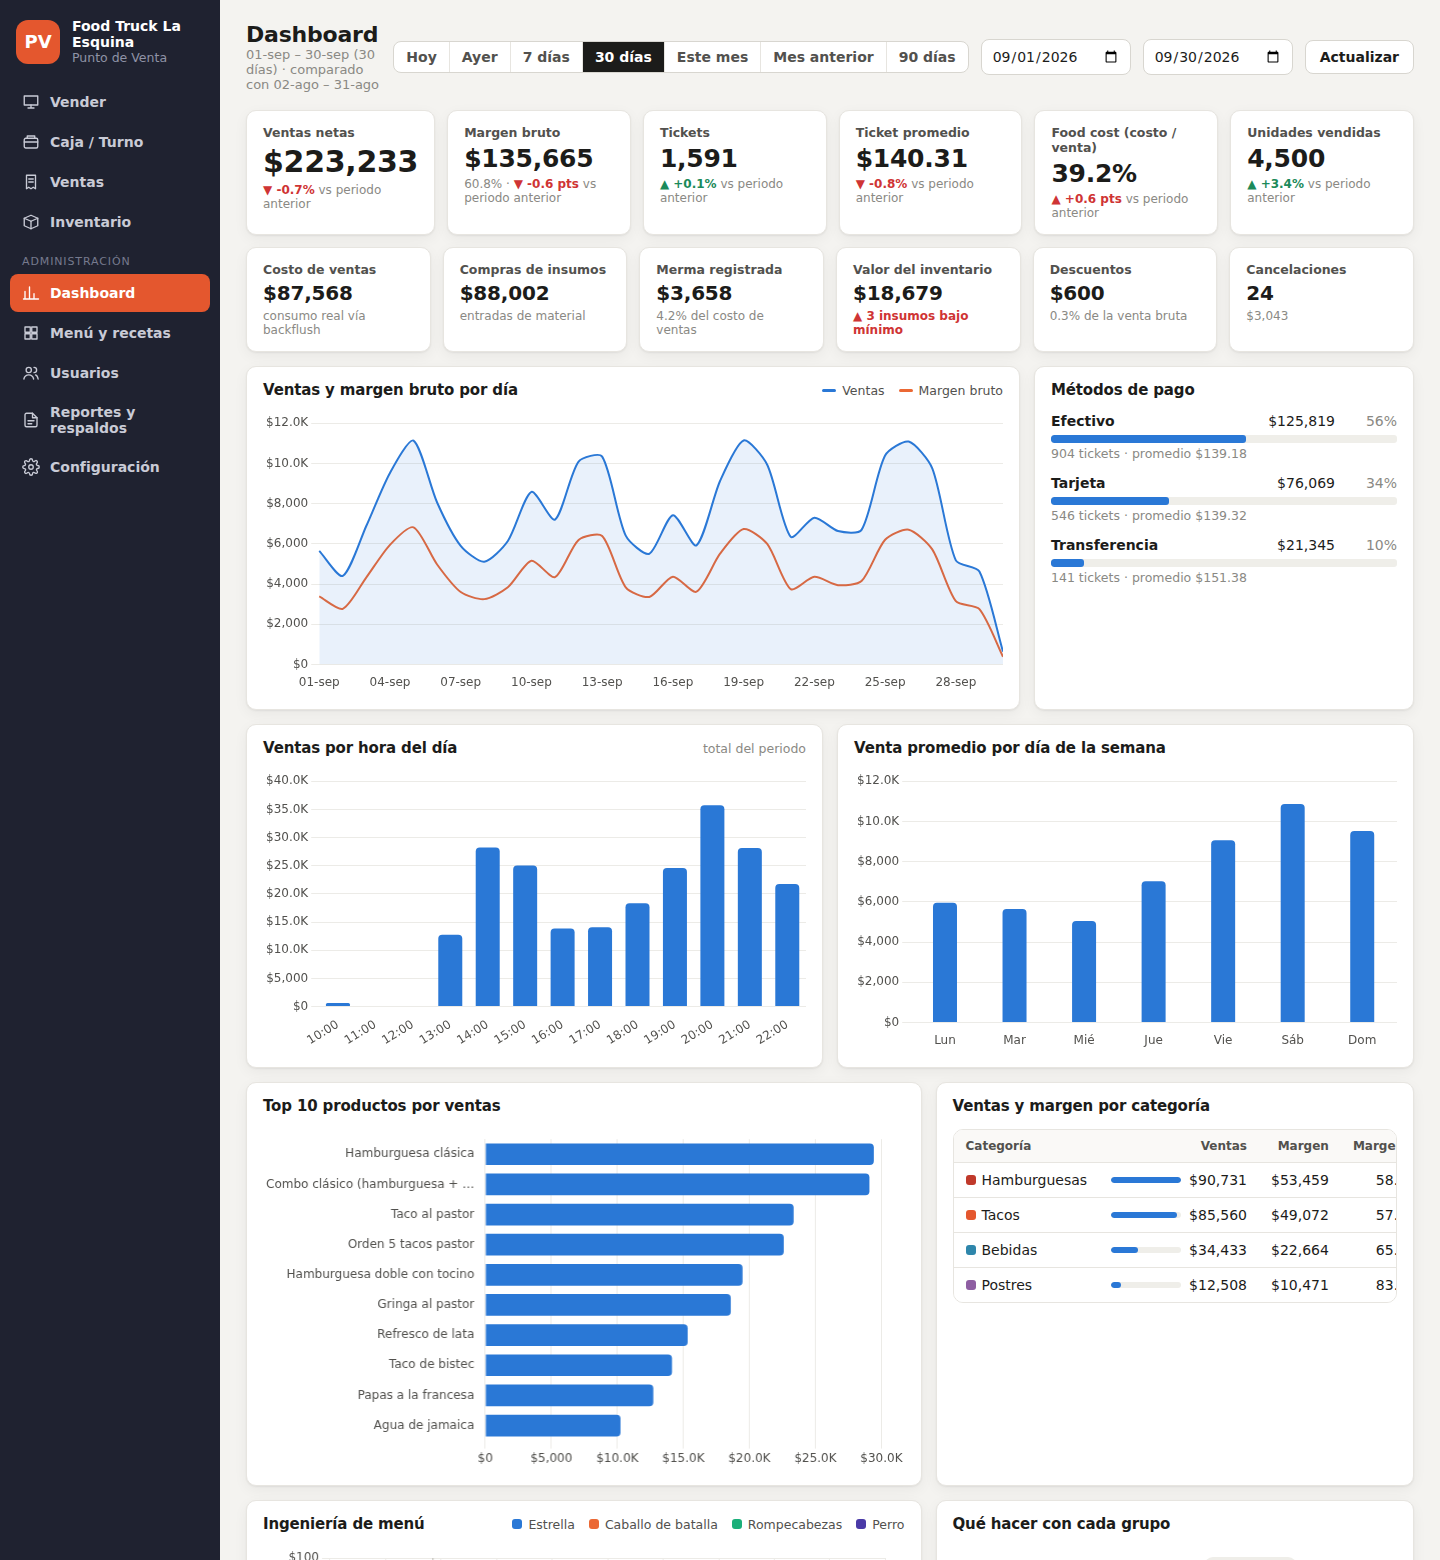
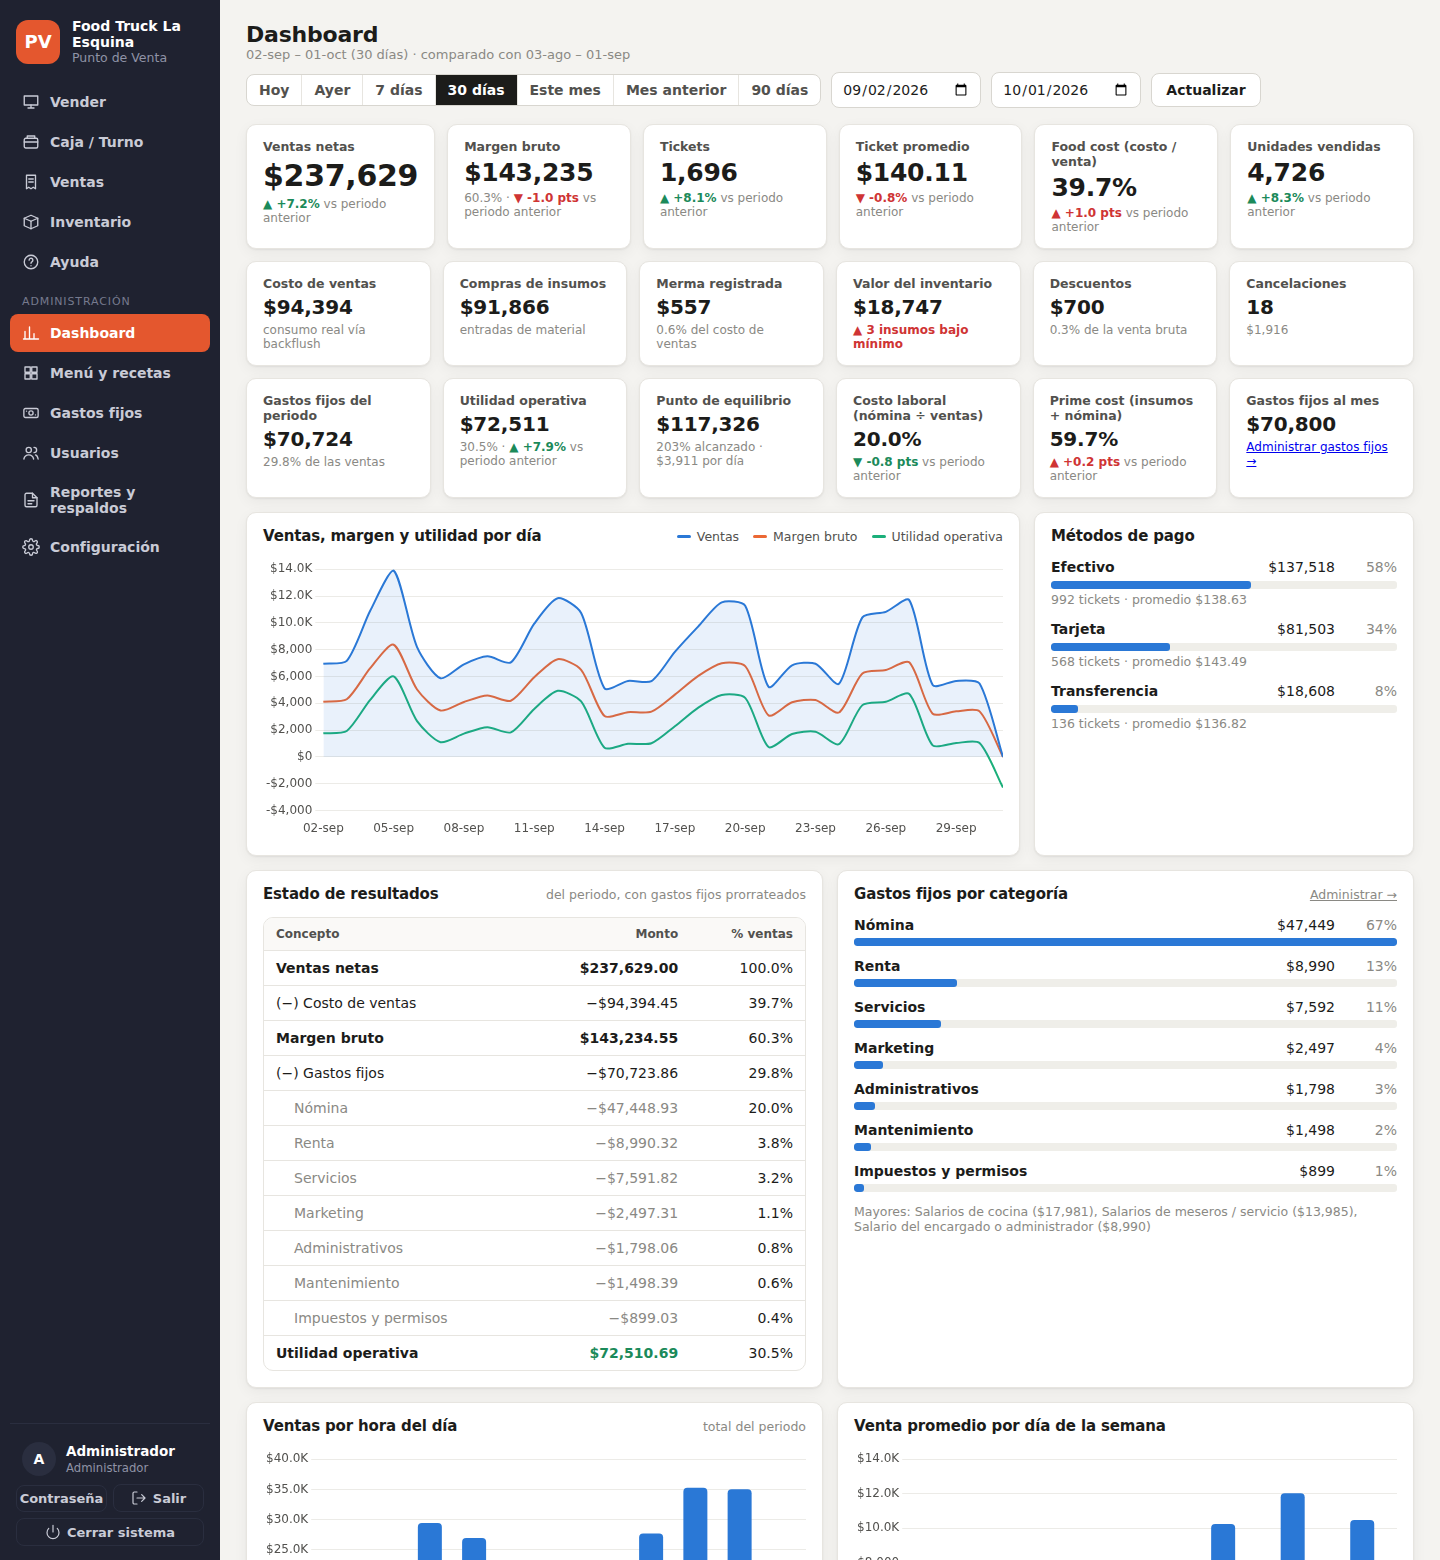
docs: actualizar capturas del README y el diagrama del flujo de venta
- pos.png y dashboard.png muestran la interfaz actual (pestañas por mesa, gastos fijos y utilidad).
- El diagrama de arquitectura describe el cobro de una cuenta (cobrar_cuenta → registrar_venta).
- El enlace a Releases del README es absoluto.

Claude-Session: https://claude.ai/code/session_01X69tdpWTH8k3q995MZNY9m

diff --git a/docs/arquitectura.md b/docs/arquitectura.md
@@ -36,26 +36,31 @@ la transacción del llamador. Los errores de negocio se lanzan como `ErrorNegoci
 
 ## Flujo de una venta
 
+El cajero abre una cuenta por mesa, agrega consumos durante la estancia (sin tocar inventario) y al final la cobra:
+
 ```mermaid
 sequenceDiagram
     participant C as Cajero (POS)
-    participant A as API /api/ventas
-    participant S as services.registrar_venta
+    participant A as API /api/cuentas/{id}/cobrar
+    participant S as services.cobrar_cuenta
     participant D as SQLite
-    C->>A: items, método de pago, descuento, efectivo recibido
+    C->>A: método de pago, efectivo recibido, cliente
     A->>D: BEGIN IMMEDIATE
-    A->>S: registrar_venta(...)
+    A->>S: cobrar_cuenta(...) → registrar_venta(folio de la cuenta)
     S->>D: valida turno abierto, precios y existencias
-    S->>D: INSERT ventas (folio)
+    S->>D: INSERT ventas (folio, mesa)
     loop por renglón y por insumo de la receta
         S->>D: mover_inventario(BACKFLUSH) → kardex + stock
     end
     S->>D: INSERT fact_ventas (importe, costo, margen)
-    S->>D: audit(VENTA)
+    S->>D: cuentas → COBRADA, audit(VENTA)
     A->>D: COMMIT
     A-->>C: venta con folio, cambio y renglones
     C->>A: GET /ventas/{id}/ticket → imprimir
 ```
+
+`POST /api/ventas` (venta directa sin mesa) sigue disponible para integraciones y pruebas; usa el mismo
+`registrar_venta` y el mismo consecutivo de folios.
 
 ## Cuentas abiertas por mesa
 

diff --git a/README.md b/README.md
@@ -90,7 +90,7 @@ docs/                                  arquitectura, modelo de datos, manual, ca
 ```
 
 ## Instalar en computadoras de clientes
-1. Consigue el instalador de Windows: se publica solo en [Releases](../../releases) al subir una etiqueta `vX.Y.Z`
+1. Consigue el instalador de Windows: se publica solo en [Releases](https://github.com/JuanDiaz-DataAnalyst/punto-de-venta-master/releases) al subir una etiqueta `vX.Y.Z`
    (o ejecuta el workflow **Build Windows** en la pestaña Actions).
 2. Genera el kit con `python scripts/empaquetar_kit.py` (opcionalmente `--instalador ruta\Instalar_PuntoDeVentaMASTER_X.Y.Z.exe`).
    Crea `kit-instalacion/` y un `.zip` con la guía de instalación, el manual, el checklist de entrega, herramientas y el código fuente.
